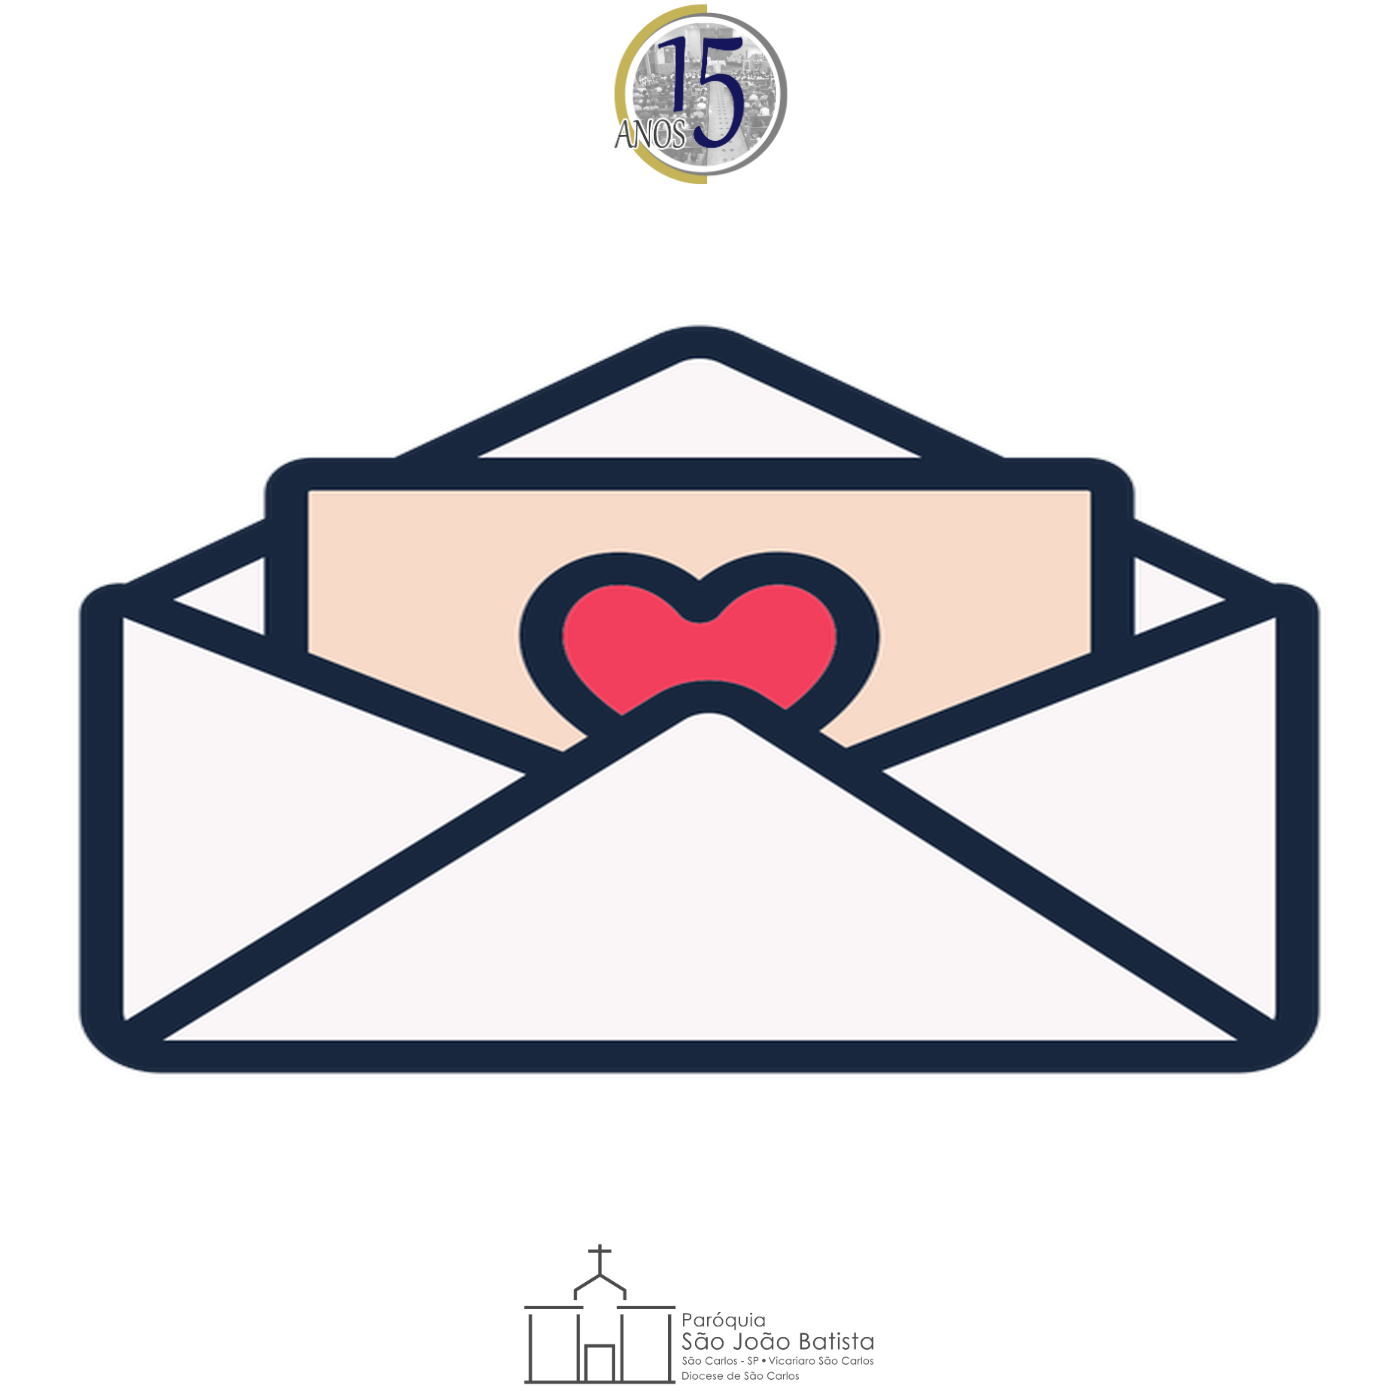
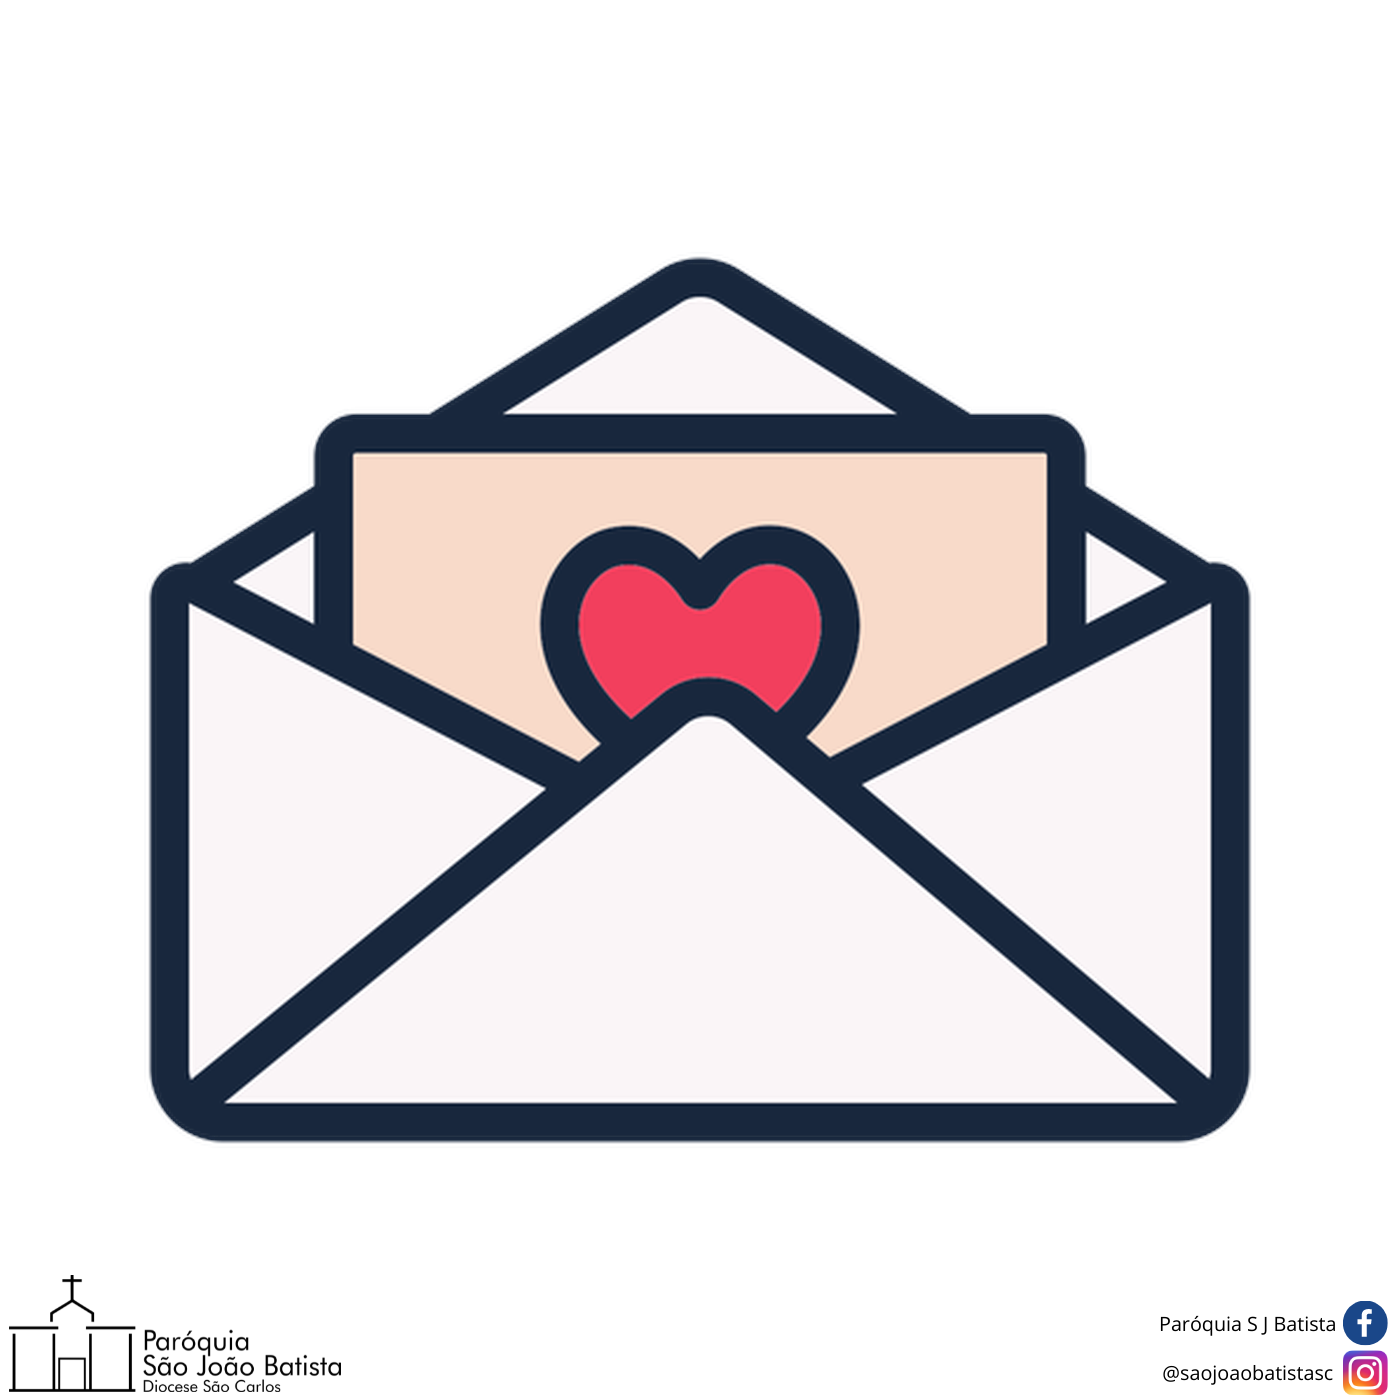
Clean Code. Atualização do Readme e imagem de exemplo

diff --git a/script_mergeImage.py b/script_mergeImage.py
@@ -4,18 +4,11 @@ import time
 from PIL import Image, ImageOps, ExifTags
 from tqdm import tqdm
 
-# Dimensões default das imagens
-# SIZE_IMAGE = (1336, 601)
-# SIZE_IMAGE = (1355, 762)
-# SIZE_IMAGE = (1338, 1004)
-# SIZE_IMAGE = (1365, 1022)
-
-# SIZE_IMAGE_VERT = (582, 1294)
-# SIZE_IMAGE_VERT = (920, 1226)
-
 # Dimensão padrão das imagens (apenas de um dos lados)
 BASE_HORIZ = 1365
 BASE_VERT = 1200
+
+SIZE_IMG_BACKGROUND = (1400, 1400)
 
 def func_eh_imagem(nome_arquivo):
     ext_permitidas = [".png", ".jpg", ".jpeg"]
@@ -24,12 +17,8 @@ def func_eh_imagem(nome_arquivo):
     return False    
 
 def isImageVertical(foto):
-    # data = ImageOps.exif_transpose(foto)
-    largura, altura = getDimensionsImg(foto) # data.size
-    
-    # print(largura, altura)
-
-    if altura > largura:
+    largura, altura = getDimensionsImg(foto)
+    if altura >= largura:
         return True
     return False
 
@@ -73,7 +62,7 @@ def func_join_images(input_dir,  output_dir, img_fundo, img_fundo_secundaria):
     sucesso = 0
 
     # Definição medida da moldura
-    size_moldura = (1400, 1400) # Tamanho de uma post do Instagram (Dafault)
+    size_moldura = SIZE_IMG_BACKGROUND # Tamanho de uma post do Instagram (Dafault)
     # size_moldura = (1080, 1080) # Tamanho de uma post do Instagram (Reduzido)
 
     lista_arquivos = [nome for nome in os.listdir(input_dir) if func_eh_imagem(nome)]
@@ -89,14 +78,9 @@ def func_join_images(input_dir,  output_dir, img_fundo, img_fundo_secundaria):
         hsize = int((float(hh)*float(wpercent)))
         
         # Definição das medidas da imagem
-        # size_img = SIZE_IMAGE # Default
         size_img = (BASE_HORIZ, hsize) # Default Horizontal
         
-        # size_img = (1053, 593) # Imagem original HEIC (iPhone)
-        if isImageVertical(img):
-            # size_img = SIZE_IMAGE_VERT # Default
-            # size_img = (554, 985) # Imagem original HEIC (iPhone)
-            
+        if isImageVertical(img): 
             # Calculo das dimenções pela proporção (Foto Vertical)
             hpercent = (BASE_VERT/float(hh))
             wsize = int((float(ww)*float(hpercent)))

diff --git a/README.md b/README.md
@@ -1,20 +1,26 @@
 # Merge Images
+
 Script em Python de junção de Images
 
 O projeto contém um script (script_mergeImage.py), que permite você definir uma imagem de fundo padrão e passar um repositório contendo várias imagens, será gerado uma nova imagem editada para cada item encontrado no repositório listado.
 
-Obs: A medida final da moldura está adequada para postagem do Instagram (1400 x 1400)
+Obs: O script contém variáveis com dimensões padrões da imagem de fundo (SIZE_IMG_BACKGROUND) e tamanhos base para imagens horizontal (BASE_HORIZ) e vertical (BASE_VERT), se for necessário atualize de acordo com a necessidade.
 
-## Abaixo um exemplo do comando para executar:
+- Requisitos:
+  - Python
+  - Pillow (pip install Pillow)
+  - tqdm (pip install tqdm)
 
-Modelo: 
+## Exemplo de comando para executar:
+
+Modelo:
 <code>
-  python script_mergeImage.py [diretorio de imagens] [img de fundo] [img fundo secundaria vertical --opcional]
+python script_mergeImage.py [diretorio de imagens] [img de fundo] [img fundo secundaria vertical --opcional]
 </code>
 
 Exemplo
 <code>
-  python.exe script_mergeImage.py images/ moldura/Fundo_Logo.png moldura/Fundo_LogoVert.png
+python script_mergeImage.py imagens/ moldura/Fundo_Logo2.png
 </code>
 
 ## Resultado:
